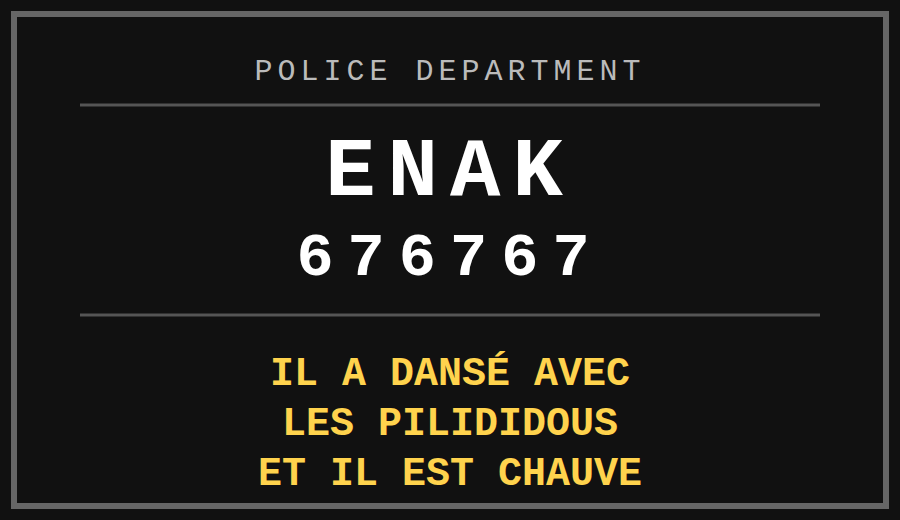
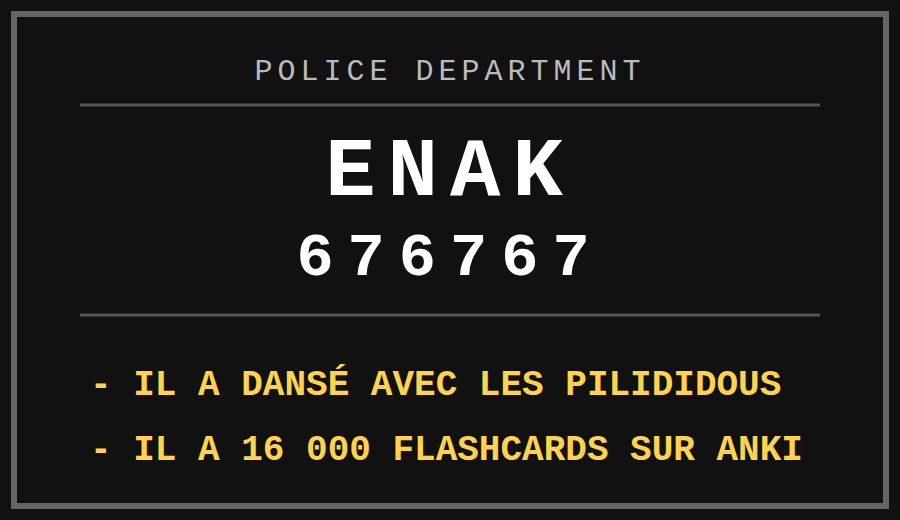
Update ENAK placard with bullet list
Claude-Session: https://claude.ai/code/session_013qRqLeeUSNL2kFqN6GuY8j

diff --git a/mugshot/pancarte.html b/mugshot/pancarte.html
@@ -8,8 +8,9 @@
     <text x="450" y="195" font-size="84" font-weight="bold" fill="#fff" letter-spacing="12">ENAK</text>
     <text x="450" y="275" font-size="62" font-weight="bold" fill="#fff" letter-spacing="14">676767</text>
     <line x1="80" y1="315" x2="820" y2="315" stroke="#555" stroke-width="3"/>
-    <text x="450" y="385" font-size="40" font-weight="bold" fill="#ffd34d">IL A DANSÉ AVEC</text>
-    <text x="450" y="435" font-size="40" font-weight="bold" fill="#ffd34d">LES PILIDIDOUS</text>
-    <text x="450" y="485" font-size="40" font-weight="bold" fill="#ffd34d">ET IL EST CHAUVE</text>
+    </g>
+  <g font-family="Courier New, monospace" font-size="36" font-weight="bold" fill="#ffd34d">
+    <text x="90" y="395">- IL A DANSÉ AVEC LES PILIDIDOUS</text>
+    <text x="90" y="460">- IL A 16 000 FLASHCARDS SUR ANKI</text>
   </g>
 </svg></body></html>
